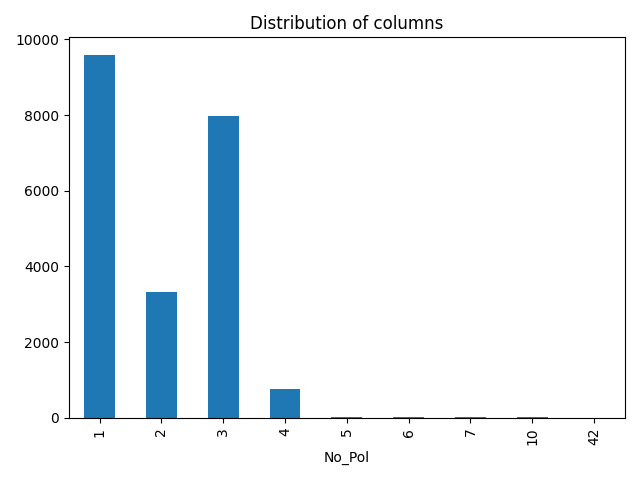
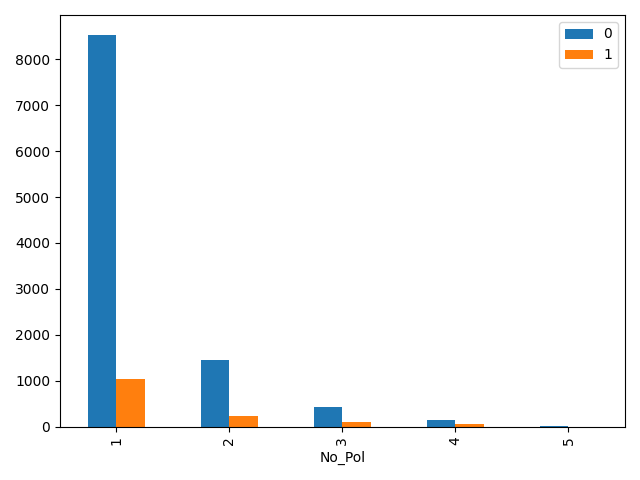
adding logistic classification code and graph plots

diff --git a/modules/preprocessing.py b/modules/preprocessing.py
@@ -23,7 +23,7 @@ class Preprocessor:
 
     def fill_missing_values(self):
         self.clean_gender_col(self.preproc_args['missing']['gender'])
-        self.clean_age_col(self.preproc_args['missing']['age'])
+        self.clean_age_col(int(self.preproc_args['missing']['age']))
         self.plot_graph()
 
 
@@ -45,18 +45,64 @@ class Preprocessor:
         print('No of null:',self.data['Gender'].isnull().sum())
 
     def clean_age_col(self, replace_value):
-        self.data = self.data.mask(self.data['Age'] < 0, replace_value)
+        print('\nCleaning up Age Column')
+        self.data['Age'] = self.data['Age'].apply(pd.to_numeric)
+        self.X['Age'] = self.X['Age'].apply(pd.to_numeric)
+        self.data['Age'] = self.data['Age'].mask(self.data['Age'] < 0, replace_value)
+        self.X['Age'] = self.X['Age'].mask(self.X['Age'] < 0, replace_value)
+        print('No of invalid ages: ',self.data[self.data['Age'] < 0]['Age'].shape)
 
     def plot_graph(self):
-        for col in self.X.columns:
+        for col in self.data.columns:
             if col in self.preproc_args['skip']:
                 pass
-            else:
+            elif col == 'Age':
+                col_names = ['Below 18', '18-45', '45-60', 'Above or equal to 60']
+                data = {}
+                data[col_names[0]] = { 
+                    0: self.data[(self.data['Age'] < 18) & (self.data['target'] == 0)]['Age'].size,
+                    1: self.data[(self.data['Age'] < 18) & (self.data['target'] == 1)]['Age'].size
+                }
+                data[col_names[1]] = {
+                    0: self.data[((self.data['Age'] > 17) & (self.data['Age'] < 45)) & (self.data['target'] == 0)]['Age'].size,
+                    1: self.data[((self.data['Age'] > 17) & (self.data['Age'] < 45)) & (self.data['target'] == 1)]['Age'].size
+                }
+                data[col_names[2]] = {
+                    0: self.data[((self.data['Age'] > 44) & (self.data['Age'] < 60)) & (self.data['target'] == 0)]['Age'].size,
+                    1: self.data[((self.data['Age'] > 44) & (self.data['Age'] < 60)) & (self.data['target'] == 1)]['Age'].size
+                }
+                data[col_names[3]] = {
+                    0: self.data[(self.data['Age'] > 59) & (self.data['target'] == 0)]['Age'].size,
+                    1: self.data[(self.data['Age'] > 59) & (self.data['target'] == 1)]['Age'].size
+                }
+                data = pd.DataFrame(data=list(data.values()), index=col_names)
+                data.plot(kind="bar")
+                plt.title("Age Distribution")
+                plt.xlabel("Age Ranges")
+                plt.ylabel("Count")
+                plt.tight_layout()
+                plt.savefig(f'{plot_path}/{col}_distribution.png')
+                plt.clf()
+            elif col == 'target':
                 tdata = self.data
                 unique_cols = tdata.groupby(col)['ID'].nunique()
                 unique_cols.plot.bar(x=col,y="Count",title="Distribution of columns")
                 plot_path = path.join(getenv("ROOT_DIR"),self.config['visualizations'])
                 plt.tight_layout()
                 plt.savefig(f'{plot_path}/{col}_distribution.png')
+                plt.clf()
+            else:
+                tdata0 = self.data[self.data['target'] == 0]
+                tdata1 = self.data[self.data['target'] == 1]
+                unique_cols0 = tdata0.groupby(col)['ID'].nunique()
+                unique_cols0 = unique_cols0.rename("0")
+                unique_cols1 = tdata1.groupby(col)['ID'].nunique()
+                unique_cols1 = unique_cols1.rename("1")
+                unique_cols = pd.merge(unique_cols0, unique_cols1, right_index=True, left_index=True)
+                unique_cols.plot(kind="bar")
+                plot_path = path.join(getenv("ROOT_DIR"),self.config['visualizations'])
+                plt.tight_layout()
+                plt.savefig(f'{plot_path}/{col}_distribution.png')
+                plt.clf()
 
         

diff --git a/modules/experiment.py b/modules/experiment.py
@@ -1,6 +1,9 @@
 import yaml
 import os
 import json
+import pandas as pd
+
+from modules.utils import get_filename
 
 class Experiment:
     yaml_path = ''
@@ -22,11 +25,12 @@ class Experiment:
         log_fnpath = os.path.join(model_path, f'{filename}_log.txt')
         with open(log_fnpath, "w+") as file:
             file.write(json.dumps(model_args))
-    
-    def get_model_params(cls):
-        return cls.model_args
 
-    def get_config(cls):
-        return cls.config_args
-
+    def predict_and_save_csv(self,model,test_features,test_ids):
+        title = get_filename(self.model_args['model'])
+        ypreds = model.predict(test_features)
+        y_ids = pd.DataFrame(test_ids, columns=['ID'])
+        y_preds_df = pd.DataFrame(y_preds, columns=['target'])
+        predictions = y_ids.join(y_preds_df)
+        predictions.to_csv(f'{self.config_args["output"]}/{title}.csv', index = False)
 

diff --git a/models/logistic.py b/models/logistic.py
@@ -1,0 +1,26 @@
+from sklearn.model import LogisticRegressionCV
+
+from modules.utils import get_model_params
+
+class Logistic:
+    X = None
+    y = None
+    model = None
+    model_params = None
+
+    def __init__(self,X,y,test_ids):
+        self.X = X
+        self.y = y
+        self.model_params = get_model_params()
+
+    def train_model(self):
+        logistic = LogisticRegressionCV(scoring=self.model_params['scoring'],
+                solver=self.model_params['solver'],
+                tolerance=self.model_params['tolerance'],
+                class_weight=self.model_params['class_weight'],
+                n_jobs = -1,
+                random_state = 42)
+        self.model = logistic.fit(self.X, self.y)
+        return self.model
+
+
